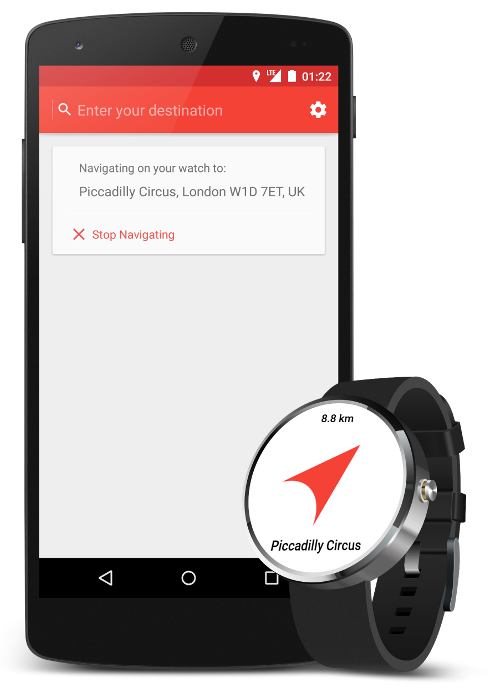
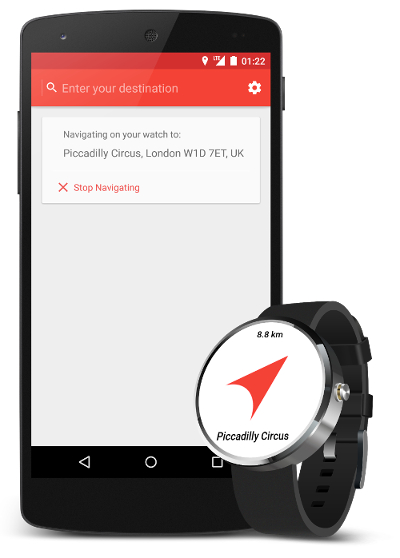
Updated mobile layout. Added theme color.

diff --git a/stylesheets/stylesheet.css b/stylesheets/stylesheet.css
@@ -451,7 +451,7 @@ header {
   padding-bottom: 40px;
   height: 280px;
   position: relative;
-  background:  rgba(244,67,54 ,1.0);
+  background:  #f44336;
   font-family: 'Architects Daughter', 'Helvetica Neue', Helvetica, Arial, serif;
 }
 
@@ -476,6 +476,10 @@ header h2 {
   line-height: 1.3;
   color: #fff;
   letter-spacing: 0;
+}
+
+header img {
+  float: left;
 }
 
 .inner {
@@ -506,10 +510,6 @@ header h2 {
   bottom: 280px;
 }
 
-#downloads {
-  margin-bottom: 40px;
-}
-
 a.button {
   width: 134px;
   height: 58px;
@@ -523,20 +523,6 @@ a.button {
 a.button small {
   display: block;
   font-size: 11px;
-}
-header a.button {
-  position: absolute;
-  top: 0;
-  right: 0;
-  background: transparent url(../images/github-button.png) 0 0 no-repeat;
-}
-aside a.button {
-  display: block;
-  width: 138px;
-  padding-left: 64px;
-  margin-bottom: 20px;
-  font-size: 21px;
-  background: transparent url(../images/download-button.png) 0 0 no-repeat;
 }
 
 code, pre {
@@ -761,6 +747,14 @@ footer a:hover {
 * html .clearfix {height: 1%;}
 .clearfix {display: block;}
 
+.visible-mobile {
+  display: none !important;
+}
+
+.visible-mobile-big {
+  display: inline !important;
+}
+
 /* #Media Queries
 ================================================== */
 
@@ -771,6 +765,17 @@ footer a:hover {
 
 /* All Mobile Sizes (devices and browser) */
 @media only screen and (max-width: 850px) {
+  .visible-mobile {
+    display: inline !important;
+  }
+  .hidden-mobile {
+    display: none !important;
+  }
+
+  .visible-mobile-big {
+    display: inline !important;
+  }
+
   .inner {
     width: 93%;
   }
@@ -784,13 +789,13 @@ footer a:hover {
   header h1, header h2 {
     margin-left: 0;
     margin-top: 0;
-    width: 100%;
   }
   header h1 {
-    font-size: 38px;
+    font-size: 32px;
   }
   header h2 {
-    font-size: 24px;
+    margin-top: 10px;
+    font-size: 22px;
   }
   header a.button {
     position: relative;
@@ -834,9 +839,9 @@ footer a:hover {
   }
 
   #image img {
+    display: block;
     position:absolute; top:100%;
-    left: 10%;
-    width: 80%;
+    max-width: 80%;
   }
 
   #main-content h1:before,
@@ -854,5 +859,21 @@ footer a:hover {
 /* Mobile Landscape Size to Tablet Portrait (devices and browsers) */
 @media only screen and (min-width: 480px) and (max-width: 767px) { }
 
-/* Mobile Portrait Size to Mobile Landscape Size (devices and browsers) */
-@media only screen and (max-width: 479px) { }
+/* Small Mobile Portrait Size to Mobile Landscape Size (devices and browsers) */
+@media only screen and (max-width: 479px) {
+  header h1 {
+    font-size: 28px;
+  }
+  header h2 {
+    margin-top: 10px;
+    font-size: 18px;
+  }
+}
+
+
+/* Tiny Mobile Portrait Size to Mobile Landscape Size (devices and browsers) */
+@media only screen and (max-height: 550px) and (max-width: 479px) {
+  .visible-mobile-big {
+    display: none !important;
+  }
+}

diff --git a/index.html b/index.html
@@ -4,6 +4,7 @@
     <meta charset='utf-8'>
     <meta http-equiv="X-UA-Compatible" content="chrome=1">
     <meta name="viewport" content="width=device-width, initial-scale=1, maximum-scale=1">
+    <meta name="theme-color" content="#f44336">
     <meta name="description" content="A simple and beautiful compass navigation app for your Android Wear smartwatch.">
     <link href='http://fonts.googleapis.com/css?family=Signika' rel='stylesheet' type='text/css'>
     <link rel="stylesheet" type="text/css" href="stylesheets/stylesheet.css" media="screen">
@@ -20,6 +21,7 @@
   <body>
     <header>
       <div class="inner">
+        <img src="./images/watch_mockup_transparent.png" alt="Watch mockup" class="visible-mobile"/>
         <h1>Compass Navigation</h1>
         <h2>for Android Wear</h2>
       </div>
@@ -27,7 +29,7 @@
 
       <div class="inner clearfix">
           <section id="image">
-            <img src="./images/promo_combination.png" width="400px"/>
+            <img src="./images/promo_combination.png" alt="Phone and watch mockup" class="hidden-mobile visible-mobile-big"/>
           </section>
           <section id="main-content">
             <h4>A simple and beautiful compass navigation app for your Android Wear smartwatch.</h4>
